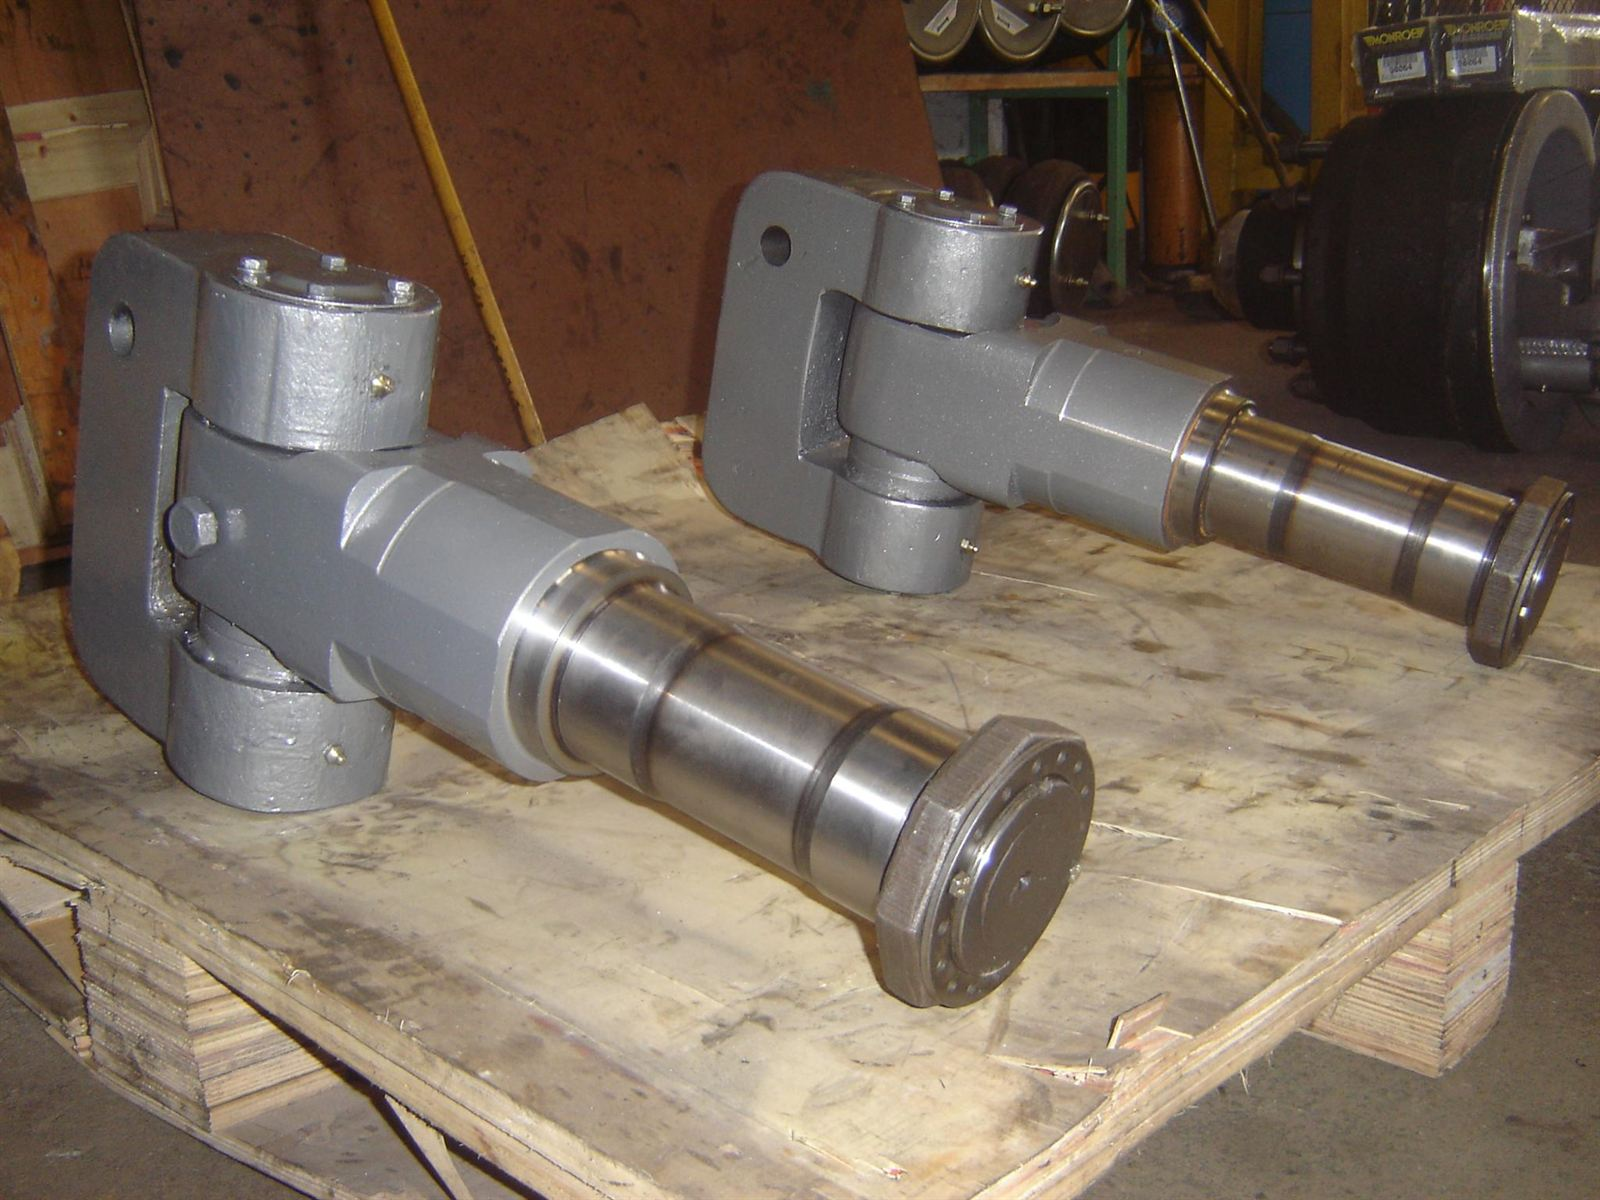
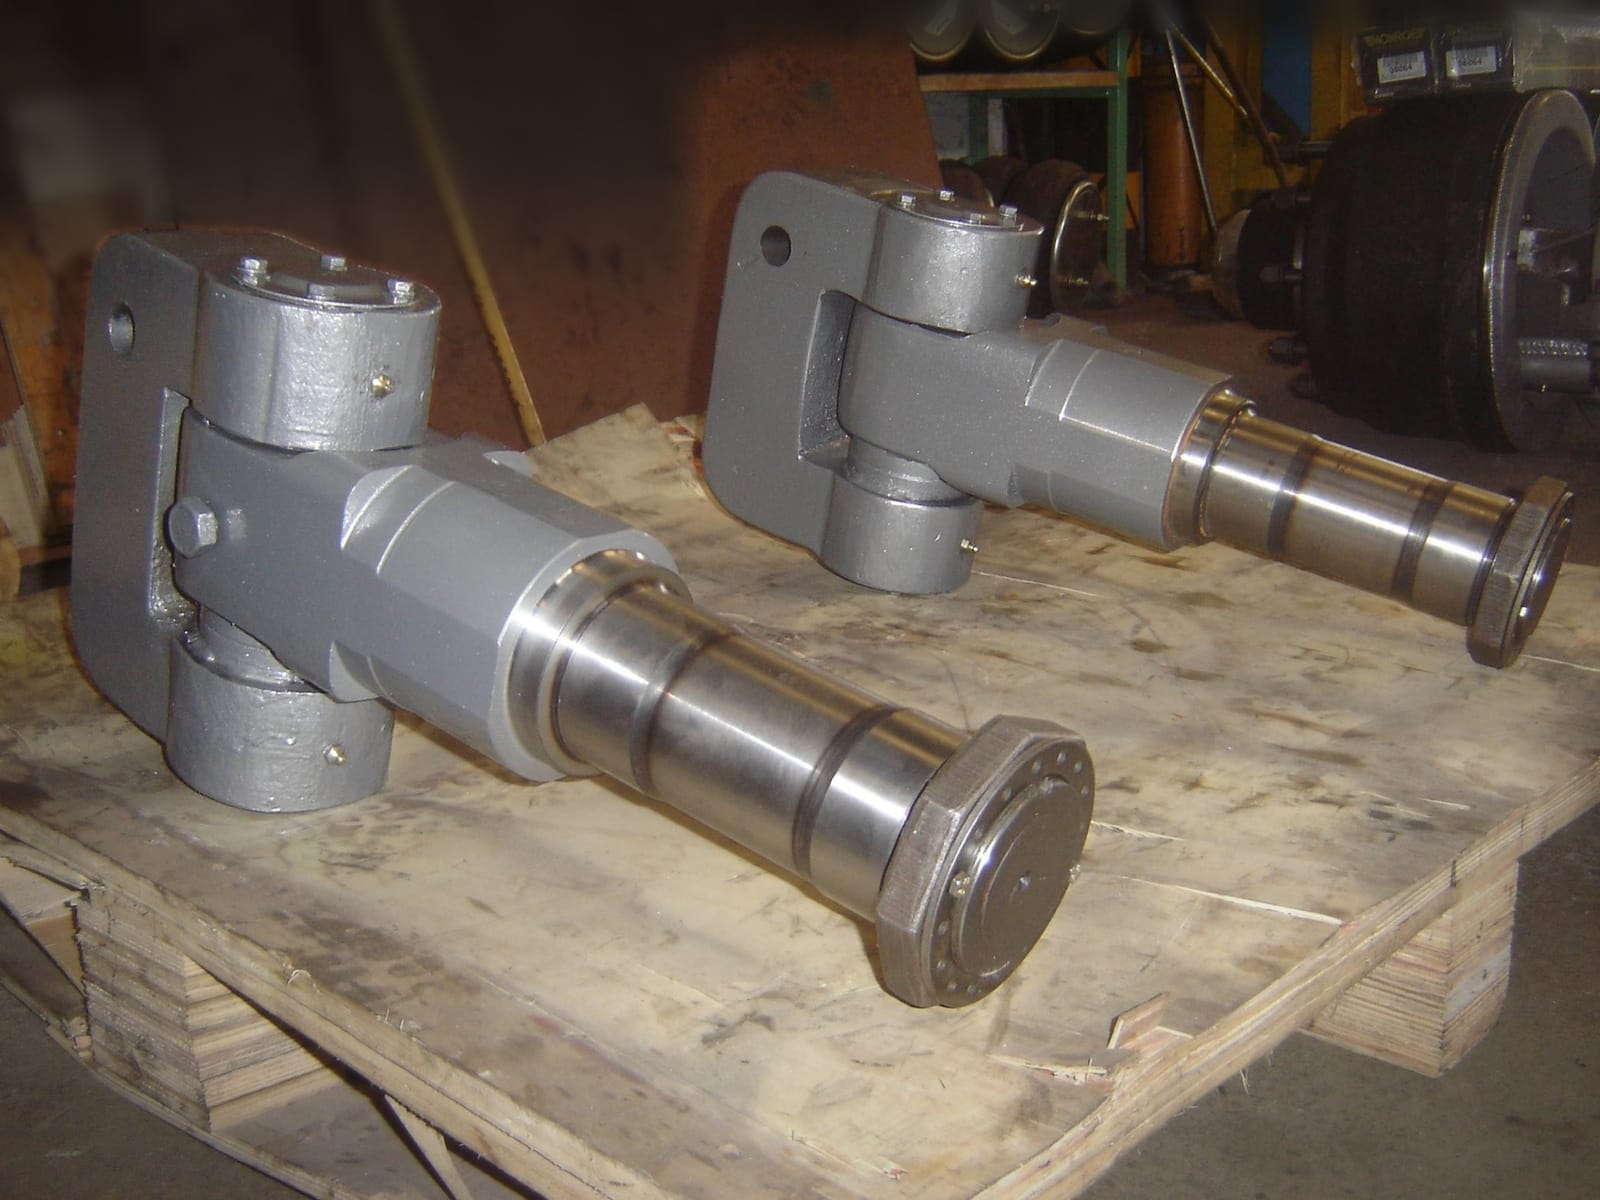
Ejes autodireccionales con fotos nuevas, el eje agricola solo donde se habla del agro y fondos de taller desenfocados en las fotos de piezas (G-045)

Changed region(s): [[0.0, 0.7708, 1.0, 1.0], [0.0, 0.0, 1.0, 0.2775], [0.0, 0.7092, 0.0625, 0.7708]]

diff --git a/ejes-autodireccionales/index.html b/ejes-autodireccionales/index.html
@@ -14,7 +14,7 @@
 <meta property="og:site_name" content="EyS · Ejes y Suspensiones">
 <meta property="og:title" content="Ejes autodireccionales a medida | EyS Ejes y Suspensiones">
 <meta property="og:description" content="Fabricación de ejes autodireccionales con giro de hasta 19°: carretones con trocha variable, semirremolques con puntas móviles y uso agrícola.">
-<meta property="og:image" content="https://ejesysuspensiones.com.ar/assets/img/eje-autodireccional-semi.jpg">
+<meta property="og:image" content="https://ejesysuspensiones.com.ar/assets/img/ejes-autodireccionales-frente.jpg">
 <meta property="og:image:width" content="1600">
 <meta property="og:image:height" content="1200">
 <meta property="og:image:alt" content="Ejes autodireccionales a medida">
@@ -115,8 +115,8 @@
 <section class="subhero">
   <div class="subhero__bg" aria-hidden="true">
     <picture>
-      <source type="image/webp" srcset="../assets/img/eje-autodireccional-semi-800.webp 800w, ../assets/img/eje-autodireccional-semi.webp 1600w" sizes="(max-width: 900px) 100vw, 1200px">
-      <img fetchpriority="high" src="../assets/img/eje-autodireccional-semi.jpg" srcset="../assets/img/eje-autodireccional-semi-800.jpg 800w, ../assets/img/eje-autodireccional-semi.jpg 1600w" sizes="(max-width: 900px) 100vw, 1200px" width="1600" height="1200" decoding="async" alt="">
+      <source type="image/webp" srcset="../assets/img/ejes-autodireccionales-perspectiva-800.webp 800w, ../assets/img/ejes-autodireccionales-perspectiva.webp 1600w" sizes="(max-width: 900px) 100vw, 1200px">
+      <img fetchpriority="high" src="../assets/img/ejes-autodireccionales-perspectiva.jpg" srcset="../assets/img/ejes-autodireccionales-perspectiva-800.jpg 800w, ../assets/img/ejes-autodireccionales-perspectiva.jpg 1600w" sizes="(max-width: 900px) 100vw, 1200px" width="1600" height="1200" decoding="async" alt="">
     </picture>
   </div>
   <div class="container">
@@ -199,10 +199,28 @@
 
       <h2>Fotos</h2>
       <div class="page-gallery">
-        <button data-lightbox data-img="../assets/img/eje-autodireccional-semi.webp" data-caption="Eje autodireccional para semirremolques" aria-label="Ampliar foto">
+        <button data-lightbox data-img="../assets/img/ejes-autodireccionales-frente.webp" data-caption="Ejes autodireccionales EyS terminados, en el taller" aria-label="Ampliar foto">
           <picture>
-            <source type="image/webp" srcset="../assets/img/eje-autodireccional-semi-800.webp 800w, ../assets/img/eje-autodireccional-semi.webp 1600w" sizes="(max-width: 900px) 100vw, 1200px">
-            <img src="../assets/img/eje-autodireccional-semi.jpg" srcset="../assets/img/eje-autodireccional-semi-800.jpg 800w, ../assets/img/eje-autodireccional-semi.jpg 1600w" sizes="(max-width: 900px) 100vw, 1200px" width="1600" height="1200" decoding="async" alt="Eje autodireccional para semirremolques" loading="lazy">
+            <source type="image/webp" srcset="../assets/img/ejes-autodireccionales-frente-800.webp 800w, ../assets/img/ejes-autodireccionales-frente.webp 1600w" sizes="(max-width: 900px) 100vw, 1200px">
+            <img src="../assets/img/ejes-autodireccionales-frente.jpg" srcset="../assets/img/ejes-autodireccionales-frente-800.jpg 800w, ../assets/img/ejes-autodireccionales-frente.jpg 1600w" sizes="(max-width: 900px) 100vw, 1200px" width="1600" height="1200" decoding="async" alt="Tres ejes autodireccionales terminados en el taller de EyS" loading="lazy">
+          </picture>
+        </button>
+        <button data-lightbox data-img="../assets/img/ejes-autodireccionales-perspectiva.webp" data-caption="Ejes autodireccionales EyS listos para entregar" aria-label="Ampliar foto">
+          <picture>
+            <source type="image/webp" srcset="../assets/img/ejes-autodireccionales-perspectiva-800.webp 800w, ../assets/img/ejes-autodireccionales-perspectiva.webp 1600w" sizes="(max-width: 900px) 100vw, 1200px">
+            <img src="../assets/img/ejes-autodireccionales-perspectiva.jpg" srcset="../assets/img/ejes-autodireccionales-perspectiva-800.jpg 800w, ../assets/img/ejes-autodireccionales-perspectiva.jpg 1600w" sizes="(max-width: 900px) 100vw, 1200px" width="1600" height="1200" decoding="async" alt="Ejes autodireccionales terminados, vistos de costado" loading="lazy">
+          </picture>
+        </button>
+        <button data-lightbox data-img="../assets/img/eje-autodireccional-detalle.webp" data-caption="Eje autodireccional EyS: punta de eje y barra" aria-label="Ampliar foto">
+          <picture>
+            <source type="image/webp" srcset="../assets/img/eje-autodireccional-detalle-800.webp 800w, ../assets/img/eje-autodireccional-detalle.webp 1600w" sizes="(max-width: 900px) 100vw, 1200px">
+            <img src="../assets/img/eje-autodireccional-detalle.jpg" srcset="../assets/img/eje-autodireccional-detalle-800.jpg 800w, ../assets/img/eje-autodireccional-detalle.jpg 1600w" sizes="(max-width: 900px) 100vw, 1200px" width="1600" height="1200" decoding="async" alt="Punta de eje y barra de un eje autodireccional EyS" loading="lazy">
+          </picture>
+        </button>
+        <button data-lightbox data-img="../assets/img/eje-autodireccional-fuelle.webp" data-caption="Detalle del fuelle en un eje autodireccional EyS" aria-label="Ampliar foto">
+          <picture>
+            <source type="image/webp" srcset="../assets/img/eje-autodireccional-fuelle-800.webp 800w, ../assets/img/eje-autodireccional-fuelle.webp 1200w" sizes="(max-width: 900px) 100vw, 1200px">
+            <img src="../assets/img/eje-autodireccional-fuelle.jpg" srcset="../assets/img/eje-autodireccional-fuelle-800.jpg 800w, ../assets/img/eje-autodireccional-fuelle.jpg 1200w" sizes="(max-width: 900px) 100vw, 1200px" width="1200" height="1600" decoding="async" alt="Fuelle de un eje autodireccional EyS" loading="lazy">
           </picture>
         </button>
         <button data-lightbox data-img="../assets/img/eje-carreton.webp" data-caption="Eje autodireccional para carretones, con suspensión neumática" aria-label="Ampliar foto">
@@ -211,22 +229,10 @@
             <img src="../assets/img/eje-carreton.jpg" srcset="../assets/img/eje-carreton-800.jpg 800w, ../assets/img/eje-carreton.jpg 1280w" sizes="(max-width: 900px) 100vw, 1200px" width="1280" height="960" decoding="async" alt="Eje autodireccional para carretones" loading="lazy">
           </picture>
         </button>
-        <button data-lightbox data-img="../assets/img/eje-en-fabricacion.webp" data-caption="Eje autodireccional con centrado mecánico en fabricación" aria-label="Ampliar foto">
+        <button data-lightbox data-img="../assets/img/eje-agricola.webp" data-caption="Eje autodireccional agrícola, con centrado mecánico a resortes" aria-label="Ampliar foto">
           <picture>
-            <source type="image/webp" srcset="../assets/img/eje-en-fabricacion-800.webp 800w, ../assets/img/eje-en-fabricacion.webp 1600w" sizes="(max-width: 900px) 100vw, 1200px">
-            <img src="../assets/img/eje-en-fabricacion.jpg" srcset="../assets/img/eje-en-fabricacion-800.jpg 800w, ../assets/img/eje-en-fabricacion.jpg 1600w" sizes="(max-width: 900px) 100vw, 1200px" width="1600" height="1201" decoding="async" alt="Eje con centrado mecánico en fabricación" loading="lazy">
-          </picture>
-        </button>
-        <button data-lightbox data-img="../assets/img/suspension-neumatica-eys.webp" data-caption="Suspensión neumática EyS montada sobre caballete" aria-label="Ampliar foto" class="media--wide" style="--foto:url('/assets/img/suspension-neumatica-eys-800.webp')">
-          <picture>
-            <source type="image/webp" srcset="../assets/img/suspension-neumatica-eys-800.webp 800w, ../assets/img/suspension-neumatica-eys.webp 1009w" sizes="(max-width: 900px) 100vw, 1200px">
-            <img src="../assets/img/suspension-neumatica-eys.jpg" srcset="../assets/img/suspension-neumatica-eys-800.jpg 800w, ../assets/img/suspension-neumatica-eys.jpg 1009w" sizes="(max-width: 900px) 100vw, 1200px" class="is-wide" width="1009" height="523" decoding="async" alt="Suspensión neumática marca EyS" loading="lazy">
-          </picture>
-        </button>
-        <button data-lightbox data-img="../assets/img/manguetas.webp" data-caption="Manguetas y puntas de eje mecanizadas" aria-label="Ampliar foto">
-          <picture>
-            <source type="image/webp" srcset="../assets/img/manguetas-800.webp 800w, ../assets/img/manguetas.webp 1600w" sizes="(max-width: 900px) 100vw, 1200px">
-            <img src="../assets/img/manguetas.jpg" srcset="../assets/img/manguetas-800.jpg 800w, ../assets/img/manguetas.jpg 1600w" sizes="(max-width: 900px) 100vw, 1200px" width="1600" height="1200" decoding="async" alt="Manguetas mecanizadas" loading="lazy">
+            <source type="image/webp" srcset="../assets/img/eje-agricola-800.webp 800w, ../assets/img/eje-agricola.webp 1600w" sizes="(max-width: 900px) 100vw, 1200px">
+            <img src="../assets/img/eje-agricola.jpg" srcset="../assets/img/eje-agricola-800.jpg 800w, ../assets/img/eje-agricola.jpg 1600w" sizes="(max-width: 900px) 100vw, 1200px" width="1600" height="1200" decoding="async" alt="Eje autodireccional agrícola con centrado mecánico a resortes" loading="lazy">
           </picture>
         </button>
       </div>

diff --git a/trenes-rodantes-agricolas/index.html b/trenes-rodantes-agricolas/index.html
@@ -14,9 +14,9 @@
 <meta property="og:site_name" content="EyS · Ejes y Suspensiones">
 <meta property="og:title" content="Trenes rodantes agrícolas | EyS Ejes y Suspensiones">
 <meta property="og:description" content="Fabricación de trenes rodantes agrícolas y ejes autodireccionales con centrado mecánico a resortes, para equipos sin aire comprimido.">
-<meta property="og:image" content="https://ejesysuspensiones.com.ar/assets/img/eje-en-fabricacion.jpg">
+<meta property="og:image" content="https://ejesysuspensiones.com.ar/assets/img/eje-agricola.jpg">
 <meta property="og:image:width" content="1600">
-<meta property="og:image:height" content="1201">
+<meta property="og:image:height" content="1200">
 <meta property="og:image:alt" content="Trenes rodantes agrícolas">
 <meta property="og:url" content="https://ejesysuspensiones.com.ar/trenes-rodantes-agricolas/">
 <meta name="twitter:card" content="summary_large_image">
@@ -115,8 +115,8 @@
 <section class="subhero">
   <div class="subhero__bg" aria-hidden="true">
     <picture>
-      <source type="image/webp" srcset="../assets/img/eje-en-fabricacion-800.webp 800w, ../assets/img/eje-en-fabricacion.webp 1600w" sizes="(max-width: 900px) 100vw, 1200px">
-      <img fetchpriority="high" src="../assets/img/eje-en-fabricacion.jpg" srcset="../assets/img/eje-en-fabricacion-800.jpg 800w, ../assets/img/eje-en-fabricacion.jpg 1600w" sizes="(max-width: 900px) 100vw, 1200px" width="1600" height="1201" decoding="async" alt="">
+      <source type="image/webp" srcset="../assets/img/eje-agricola-800.webp 800w, ../assets/img/eje-agricola.webp 1600w" sizes="(max-width: 900px) 100vw, 1200px">
+      <img fetchpriority="high" src="../assets/img/eje-agricola.jpg" srcset="../assets/img/eje-agricola-800.jpg 800w, ../assets/img/eje-agricola.jpg 1600w" sizes="(max-width: 900px) 100vw, 1200px" width="1600" height="1200" decoding="async" alt="">
     </picture>
   </div>
   <div class="container">
@@ -182,16 +182,16 @@
 
       <h2>Fotos</h2>
       <div class="page-gallery">
+        <button data-lightbox data-img="../assets/img/eje-agricola.webp" data-caption="Eje autodireccional agrícola, con centrado mecánico a resortes" aria-label="Ampliar foto">
+          <picture>
+            <source type="image/webp" srcset="../assets/img/eje-agricola-800.webp 800w, ../assets/img/eje-agricola.webp 1600w" sizes="(max-width: 900px) 100vw, 1200px">
+            <img src="../assets/img/eje-agricola.jpg" srcset="../assets/img/eje-agricola-800.jpg 800w, ../assets/img/eje-agricola.jpg 1600w" sizes="(max-width: 900px) 100vw, 1200px" width="1600" height="1200" decoding="async" alt="Eje autodireccional agrícola con centrado mecánico a resortes" loading="lazy">
+          </picture>
+        </button>
         <button data-lightbox data-img="../assets/img/eje-en-fabricacion.webp" data-caption="Eje autodireccional con centrado mecánico en fabricación" aria-label="Ampliar foto">
           <picture>
             <source type="image/webp" srcset="../assets/img/eje-en-fabricacion-800.webp 800w, ../assets/img/eje-en-fabricacion.webp 1600w" sizes="(max-width: 900px) 100vw, 1200px">
             <img src="../assets/img/eje-en-fabricacion.jpg" srcset="../assets/img/eje-en-fabricacion-800.jpg 800w, ../assets/img/eje-en-fabricacion.jpg 1600w" sizes="(max-width: 900px) 100vw, 1200px" width="1600" height="1201" decoding="async" alt="Eje con centrado mecánico en fabricación" loading="lazy">
-          </picture>
-        </button>
-        <button data-lightbox data-img="../assets/img/eje-carreton.webp" data-caption="Conjunto de eje autodireccional" aria-label="Ampliar foto">
-          <picture>
-            <source type="image/webp" srcset="../assets/img/eje-carreton-800.webp 800w, ../assets/img/eje-carreton.webp 1280w" sizes="(max-width: 900px) 100vw, 1200px">
-            <img src="../assets/img/eje-carreton.jpg" srcset="../assets/img/eje-carreton-800.jpg 800w, ../assets/img/eje-carreton.jpg 1280w" sizes="(max-width: 900px) 100vw, 1200px" width="1280" height="960" decoding="async" alt="Conjunto de eje autodireccional" loading="lazy">
           </picture>
         </button>
         <button data-lightbox data-img="../assets/img/manguetas.webp" data-caption="Manguetas y puntas de eje mecanizadas" aria-label="Ampliar foto">

diff --git a/index.html b/index.html
@@ -296,8 +296,8 @@
       </a>
       <a class="situ__item" href="trenes-rodantes-agricolas/">
         <picture class="situ__img">
-          <source type="image/webp" srcset="assets/img/eje-en-fabricacion-800.webp">
-          <img src="assets/img/eje-en-fabricacion-800.jpg" width="800" height="600" loading="lazy" decoding="async" alt="">
+          <source type="image/webp" srcset="assets/img/eje-agricola-800.webp">
+          <img src="assets/img/eje-agricola-800.jpg" width="800" height="600" loading="lazy" decoding="async" alt="">
         </picture>
         <span class="situ__body"><strong>Es un equipo agrícola</strong><span>Trenes rodantes y ejes con centrado mecánico, sin aire comprimido.</span></span>
       </a>
@@ -544,10 +544,10 @@
       </article>
 
       <article class="product product--rev reveal">
-        <button class="product__media" data-lightbox data-img="assets/img/eje-autodireccional-semi.webp" data-caption="Eje autodireccional para semirremolques — puntas móviles, giro hasta 19°" aria-label="Ampliar foto de eje autodireccional para semirremolques">
+        <button class="product__media" data-lightbox data-img="assets/img/ejes-autodireccionales-frente.webp" data-caption="Ejes autodireccionales EyS terminados, en el taller" aria-label="Ampliar foto de ejes autodireccionales terminados">
           <picture>
-            <source type="image/webp" srcset="assets/img/eje-autodireccional-semi-800.webp 800w, assets/img/eje-autodireccional-semi.webp 1600w" sizes="(max-width: 900px) 100vw, 1200px">
-            <img src="assets/img/eje-autodireccional-semi.jpg" srcset="assets/img/eje-autodireccional-semi-800.jpg 800w, assets/img/eje-autodireccional-semi.jpg 1600w" sizes="(max-width: 900px) 100vw, 1200px" width="1600" height="1200" decoding="async" alt="Eje autodireccional para semirremolques fabricado en el taller" loading="lazy">
+            <source type="image/webp" srcset="assets/img/ejes-autodireccionales-frente-800.webp 800w, assets/img/ejes-autodireccionales-frente.webp 1600w" sizes="(max-width: 900px) 100vw, 1200px">
+            <img src="assets/img/ejes-autodireccionales-frente.jpg" srcset="assets/img/ejes-autodireccionales-frente-800.jpg 800w, assets/img/ejes-autodireccionales-frente.jpg 1600w" sizes="(max-width: 900px) 100vw, 1200px" width="1600" height="1200" decoding="async" alt="Tres ejes autodireccionales terminados en el taller de EyS" loading="lazy">
           </picture>
           <span class="product__zoom" aria-hidden="true">＋</span>
         </button>
@@ -564,10 +564,10 @@
       </article>
 
       <article class="product reveal">
-        <button class="product__media" data-lightbox data-img="assets/img/eje-en-fabricacion.webp" data-caption="Eje autodireccional con centrado mecánico — aplicación agrícola" aria-label="Ampliar foto de eje con centrado mecánico">
+        <button class="product__media" data-lightbox data-img="assets/img/eje-agricola.webp" data-caption="Eje autodireccional con centrado mecánico — aplicación agrícola" aria-label="Ampliar foto de eje con centrado mecánico">
           <picture>
-            <source type="image/webp" srcset="assets/img/eje-en-fabricacion-800.webp 800w, assets/img/eje-en-fabricacion.webp 1600w" sizes="(max-width: 900px) 100vw, 1200px">
-            <img src="assets/img/eje-en-fabricacion.jpg" srcset="assets/img/eje-en-fabricacion-800.jpg 800w, assets/img/eje-en-fabricacion.jpg 1600w" sizes="(max-width: 900px) 100vw, 1200px" width="1600" height="1201" decoding="async" alt="Eje autodireccional con centrado mecánico en proceso de fabricación" loading="lazy">
+            <source type="image/webp" srcset="assets/img/eje-agricola-800.webp 800w, assets/img/eje-agricola.webp 1600w" sizes="(max-width: 900px) 100vw, 1200px">
+            <img src="assets/img/eje-agricola.jpg" srcset="assets/img/eje-agricola-800.jpg 800w, assets/img/eje-agricola.jpg 1600w" sizes="(max-width: 900px) 100vw, 1200px" width="1600" height="1200" decoding="async" alt="Eje autodireccional agrícola con centrado mecánico a resortes" loading="lazy">
           </picture>
           <span class="product__zoom" aria-hidden="true">＋</span>
         </button>

diff --git a/que-eje-necesito/index.html b/que-eje-necesito/index.html
@@ -14,7 +14,7 @@
 <meta property="og:site_name" content="EyS · Ejes y Suspensiones">
 <meta property="og:title" content="Qué eje necesita tu equipo: autodireccional o trunnion | EyS">
 <meta property="og:description" content="Guía para elegir entre eje autodireccional, trunnion y tren rodante agrícola según tu carretón, semirremolque o equipo agrícola. Fabricación propia.">
-<meta property="og:image" content="https://ejesysuspensiones.com.ar/assets/img/eje-autodireccional-semi.jpg">
+<meta property="og:image" content="https://ejesysuspensiones.com.ar/assets/img/ejes-autodireccionales-frente.jpg">
 <meta property="og:image:width" content="1600">
 <meta property="og:image:height" content="1200">
 <meta property="og:image:alt" content="Qué eje necesita tu equipo: autodireccional o trunnion">
@@ -41,7 +41,7 @@
       "datePublished": "2026-09-30",
       "dateModified": "2026-09-30",
       "mainEntityOfPage": "https://ejesysuspensiones.com.ar/que-eje-necesito/",
-      "image": "https://ejesysuspensiones.com.ar/assets/img/eje-autodireccional-semi.jpg",
+      "image": "https://ejesysuspensiones.com.ar/assets/img/ejes-autodireccionales-frente.jpg",
       "author": {
         "@type": "Organization",
         "name": "EyS - Ejes y Suspensiones",
@@ -124,8 +124,8 @@
 <section class="subhero">
   <div class="subhero__bg" aria-hidden="true">
     <picture>
-      <source type="image/webp" srcset="../assets/img/eje-autodireccional-semi-800.webp 800w, ../assets/img/eje-autodireccional-semi.webp 1600w" sizes="(max-width: 900px) 100vw, 1200px">
-      <img fetchpriority="high" src="../assets/img/eje-autodireccional-semi.jpg" srcset="../assets/img/eje-autodireccional-semi-800.jpg 800w, ../assets/img/eje-autodireccional-semi.jpg 1600w" sizes="(max-width: 900px) 100vw, 1200px" width="1600" height="1200" decoding="async" alt="">
+      <source type="image/webp" srcset="../assets/img/ejes-autodireccionales-frente-800.webp 800w, ../assets/img/ejes-autodireccionales-frente.webp 1600w" sizes="(max-width: 900px) 100vw, 1200px">
+      <img fetchpriority="high" src="../assets/img/ejes-autodireccionales-frente.jpg" srcset="../assets/img/ejes-autodireccionales-frente-800.jpg 800w, ../assets/img/ejes-autodireccionales-frente.jpg 1600w" sizes="(max-width: 900px) 100vw, 1200px" width="1600" height="1200" decoding="async" alt="">
     </picture>
   </div>
   <div class="container">
